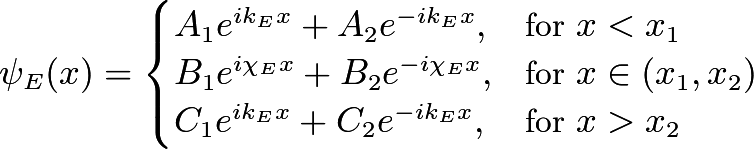
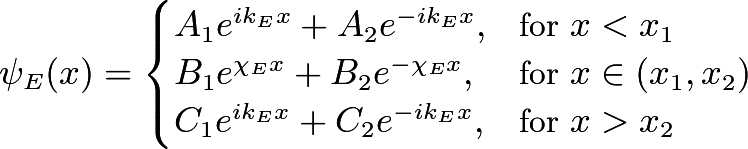
en: fix real/img exponents, in-barrier solutions

diff --git a/s5/img/eq/barrier-solutions-lowE.tex b/s5/img/eq/barrier-solutions-lowE.tex
@@ -3,7 +3,7 @@
 \psi_E(x)=
 \begin{cases}
     A_{1}e^{ik_{E}x} + A_{2}e^{-ik_{E}x}, & \text{for } x < x_1 \\
-    B_{1}e^{i\chi_{E}x} + B_{2}e^{-i\chi_{E}x}, & \text{for } x \in (x_1, x_2) \\
+    B_{1}e^{\chi_{E}x} + B_{2}e^{-\chi_{E}x}, & \text{for } x \in (x_1, x_2) \\
     C_{1}e^{ik_{E}x} + C_{2}e^{-ik_{E}x}, & \text{for } x > x_2
 \end{cases}
 \]
